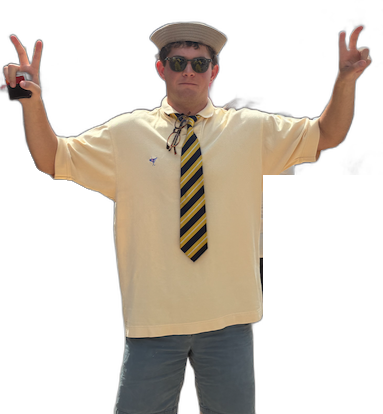
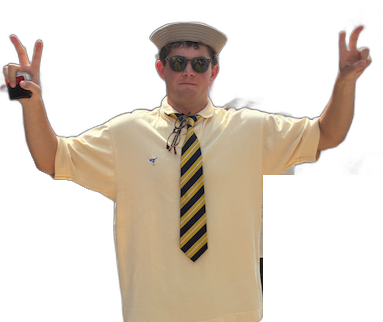
Polish Off The Dome side photos: gold glow, tighter crop, closer to oval
- Cropped the shorts out entirely (photo now ends at the shirt hem).
- Added per-sidePhoto glow color support; Off The Dome now glows gold
  instead of the shared green default, without touching Venus's photos.
- Added pg.sidePhotosOverlap, a negative margin that pulls each side
  photo toward the billboard beyond the flex row's own gap, since the
  oval's internal padding was what kept them looking far apart.
- Reworded the "click here" blurb to wrap across 2 lines instead of 3.

diff --git a/assets/app.js b/assets/app.js
@@ -519,18 +519,31 @@ function renderPage() {
   // golden hover glow and a "hint" label that appears above it on hover
   // (e.g. the "Click Me" email icons on Public Dome-ain).
   const sidePhotos = pg.sidePhotos || null;
-  const sidePhotoHTML = (side) => {
+  // sidePhotosOverlap pulls each photo toward the oval by this many px,
+  // beyond whatever the row's flex gap already leaves (negative margin on
+  // the side facing the billboard, since the billboard's own internal
+  // padding around the oval is what actually keeps them apart).
+  const sidePhotoPullStyle = (dir) =>
+    pg.sidePhotosOverlap ? "margin-" + dir + ":-" + pg.sidePhotosOverlap + "px;" : "";
+  const sidePhotoGlowStyle = (glow) =>
+    glow ? "filter:drop-shadow(0 0 14px rgba(0,0,0,0.6)) drop-shadow(0 0 16px " + glow + ");" : "";
+  const sidePhotoHTML = (side, dir) => {
     if (!side) return "";
     const src = typeof side === "string" ? side : side.photo;
+    const glow = typeof side === "object" && side.glow;
+    const style = sidePhotoGlowStyle(glow) + sidePhotoPullStyle(dir);
+    const styleAttr = style ? ' style="' + style + '"' : "";
     if (typeof side === "string" || !side.href) {
-      return '<img class="side-photo" src="' + esc(src) + '" alt="">';
+      return '<img class="side-photo" src="' + esc(src) + '" alt=""' + styleAttr + ">";
     }
     return (
       '<a class="side-photo-icon" href="' +
       esc(side.href) +
       '"><img class="side-photo" src="' +
       esc(src) +
-      '" alt="">' +
+      '" alt=""' +
+      styleAttr +
+      ">" +
       (side.hoverLabel ? '<span class="side-photo-icon-hint">' + esc(side.hoverLabel) + "</span>" : "") +
       "</a>"
     );
@@ -540,7 +553,12 @@ function renderPage() {
     planetNavHTML() +
     topbarHTML(pg.ribbon) +
     topBannerHTML +
-    (sidePhotos ? '<div class="side-photos-row">' + sidePhotoHTML(sidePhotos.left) : "") +
+    (sidePhotos
+      ? '<div class="side-photos-row"' +
+        (pg.sidePhotosGap != null ? ' style="gap:' + pg.sidePhotosGap + 'px;"' : "") +
+        ">" +
+        sidePhotoHTML(sidePhotos.left, "right")
+      : "") +
     '<div class="billboard">' +
     '<div class="oval" style="' +
     (panelIsEmpty ? "margin-bottom:40px;" : "") +
@@ -575,7 +593,7 @@ function renderPage() {
         panelInnerHTML +
         "</div>") +
     "</div>" +
-    (sidePhotos ? sidePhotoHTML(sidePhotos.right) + "</div>" : "") +
+    (sidePhotos ? sidePhotoHTML(sidePhotos.right, "left") + "</div>" : "") +
     (pg.blurb
       ? (pg.blurbBox
           ? '<div class="blurb-box" style="' +

diff --git a/config.js b/config.js
@@ -2499,10 +2499,11 @@ FIN`,
         oval: { fill: "#7a2bd0", text: "#ffb02e" },
         ribbon: "This is our stream of consciousness that we add to daily every day daily.",
         sidePhotos: {
-          left: "assets/images/off-the-dome-photo.png",
-          right: "assets/images/off-the-dome-photo-flipped.png",
+          left: { photo: "assets/images/off-the-dome-photo.png", glow: "#ffd700" },
+          right: { photo: "assets/images/off-the-dome-photo-flipped.png", glow: "#ffd700" },
         },
-        blurb: "Click here to view\nour current stream\nof consciousness",
+        sidePhotosOverlap: 40,
+        blurb: "Click here to view our current\nstream of consciousness",
         blurbHref: "stream.html",
         blurbCenter: true,
         blurbColor: "#ffe14d",
